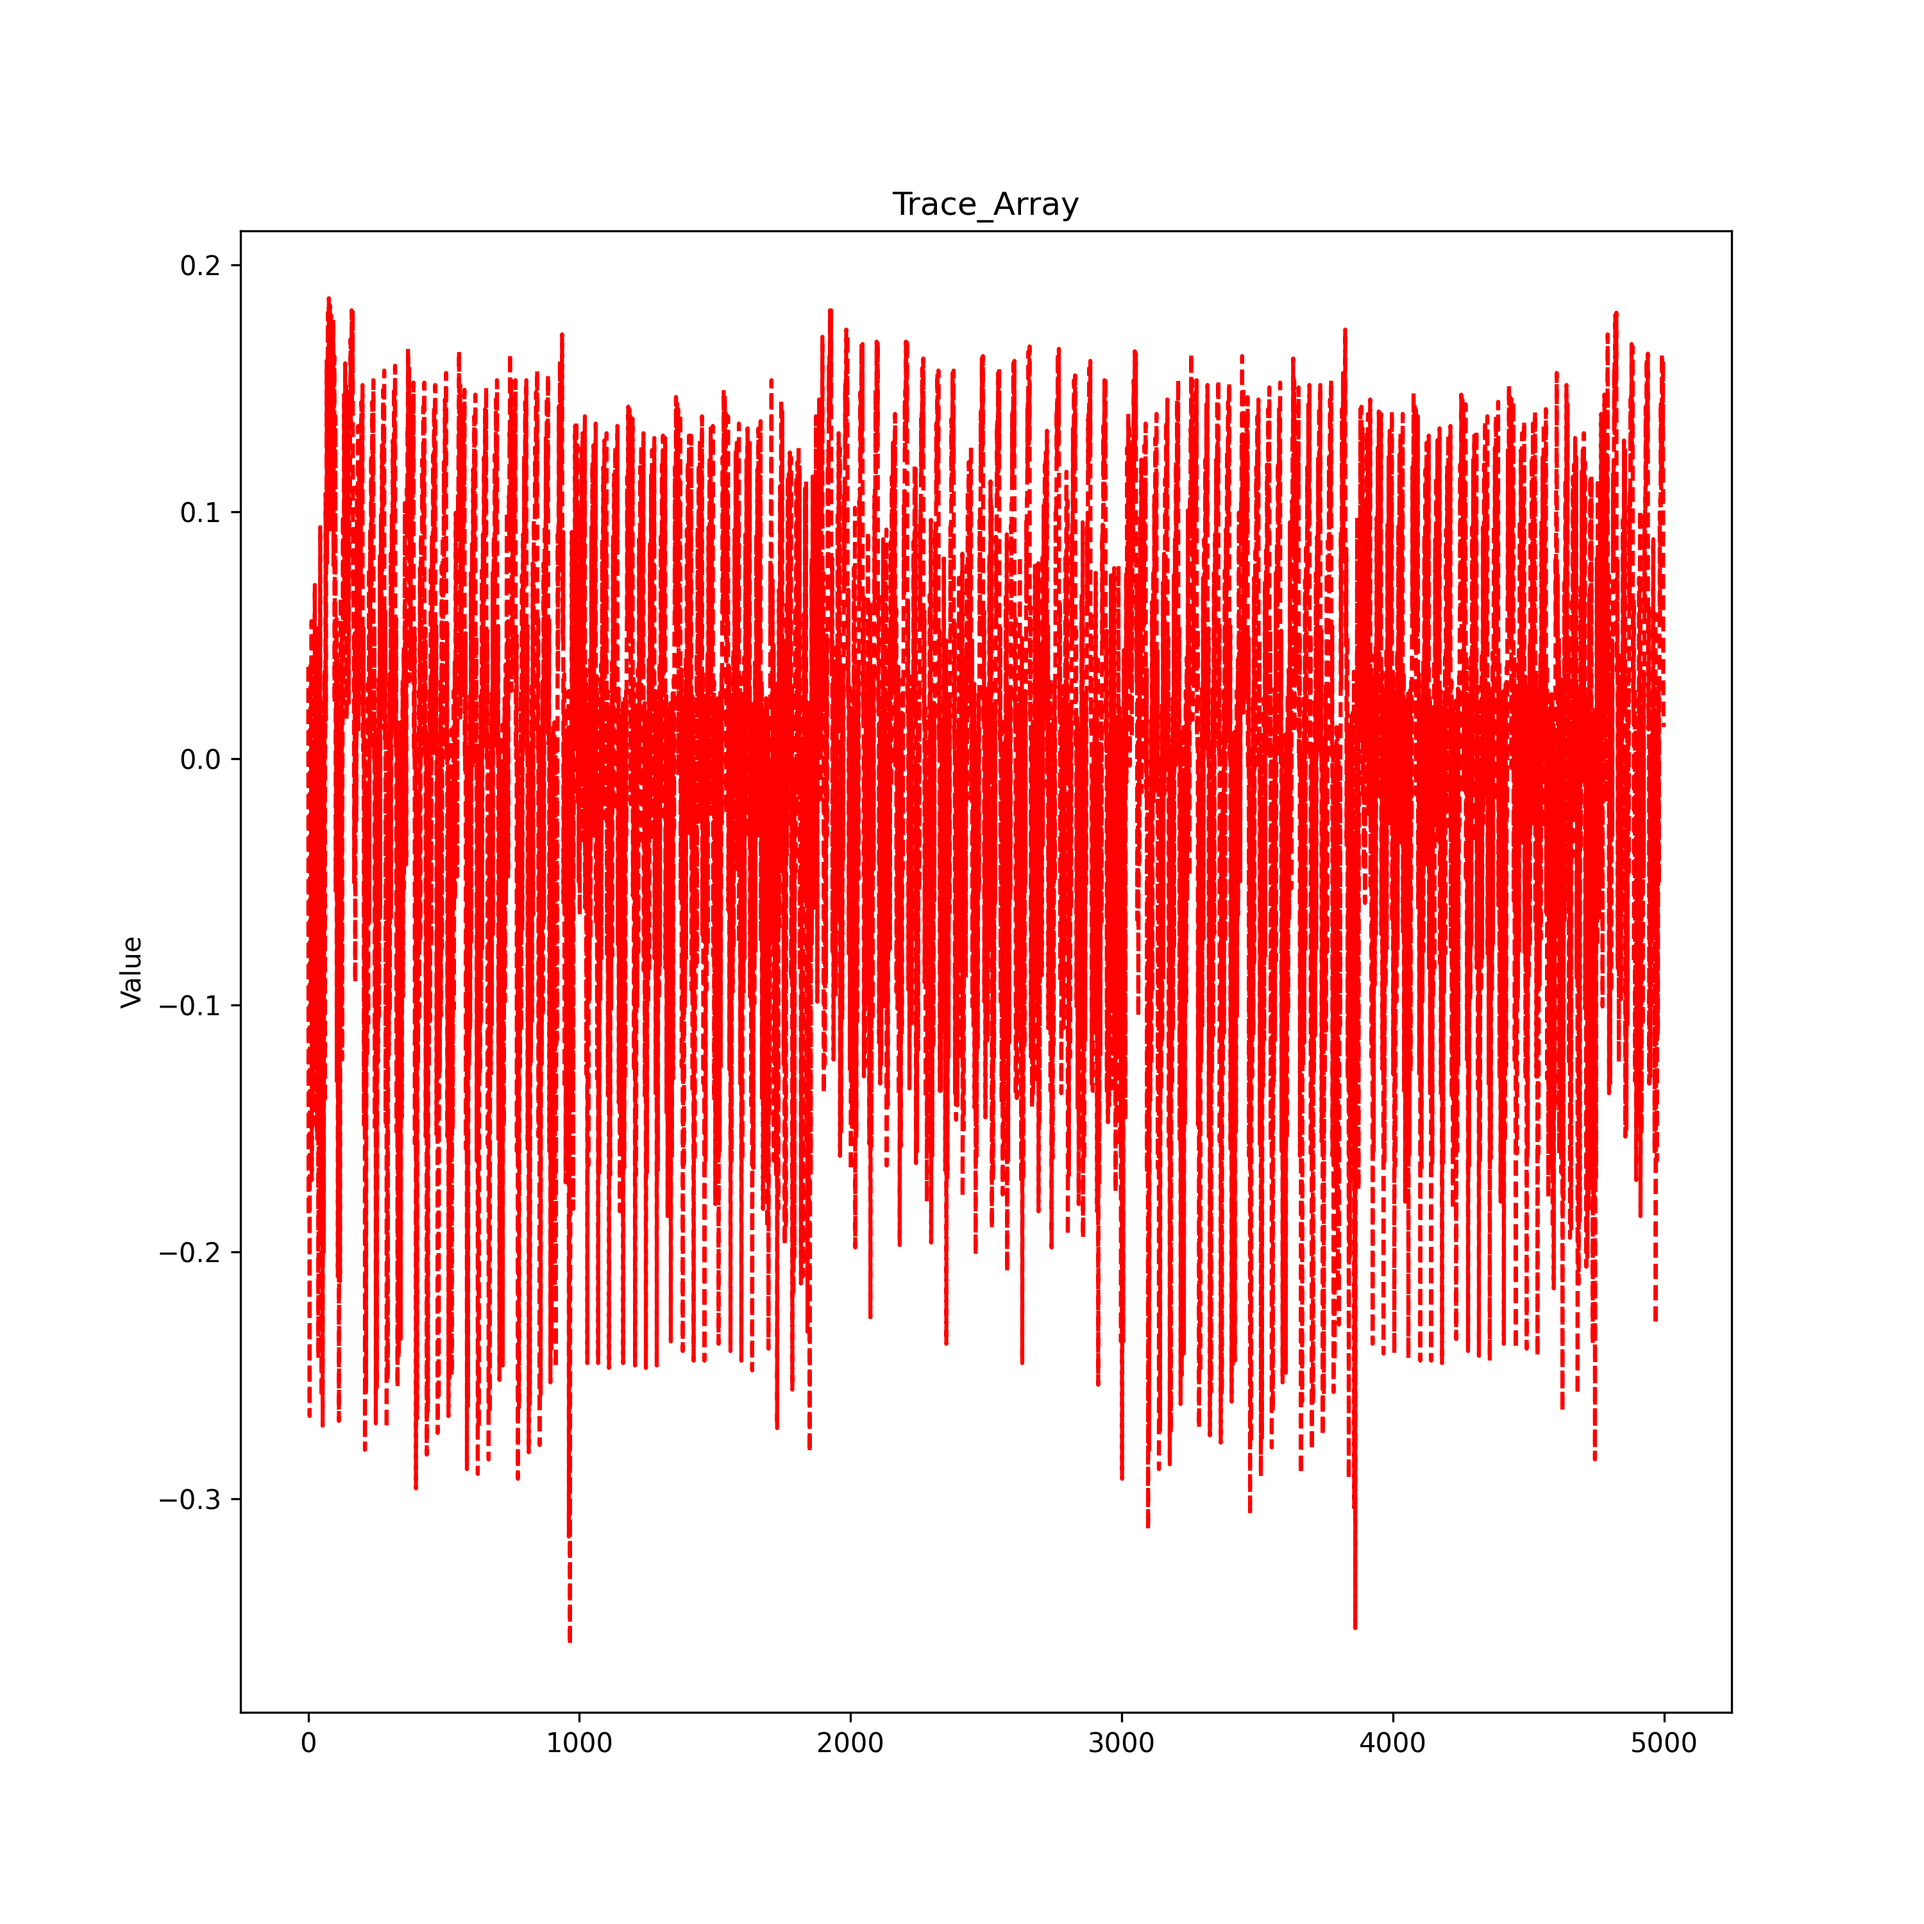
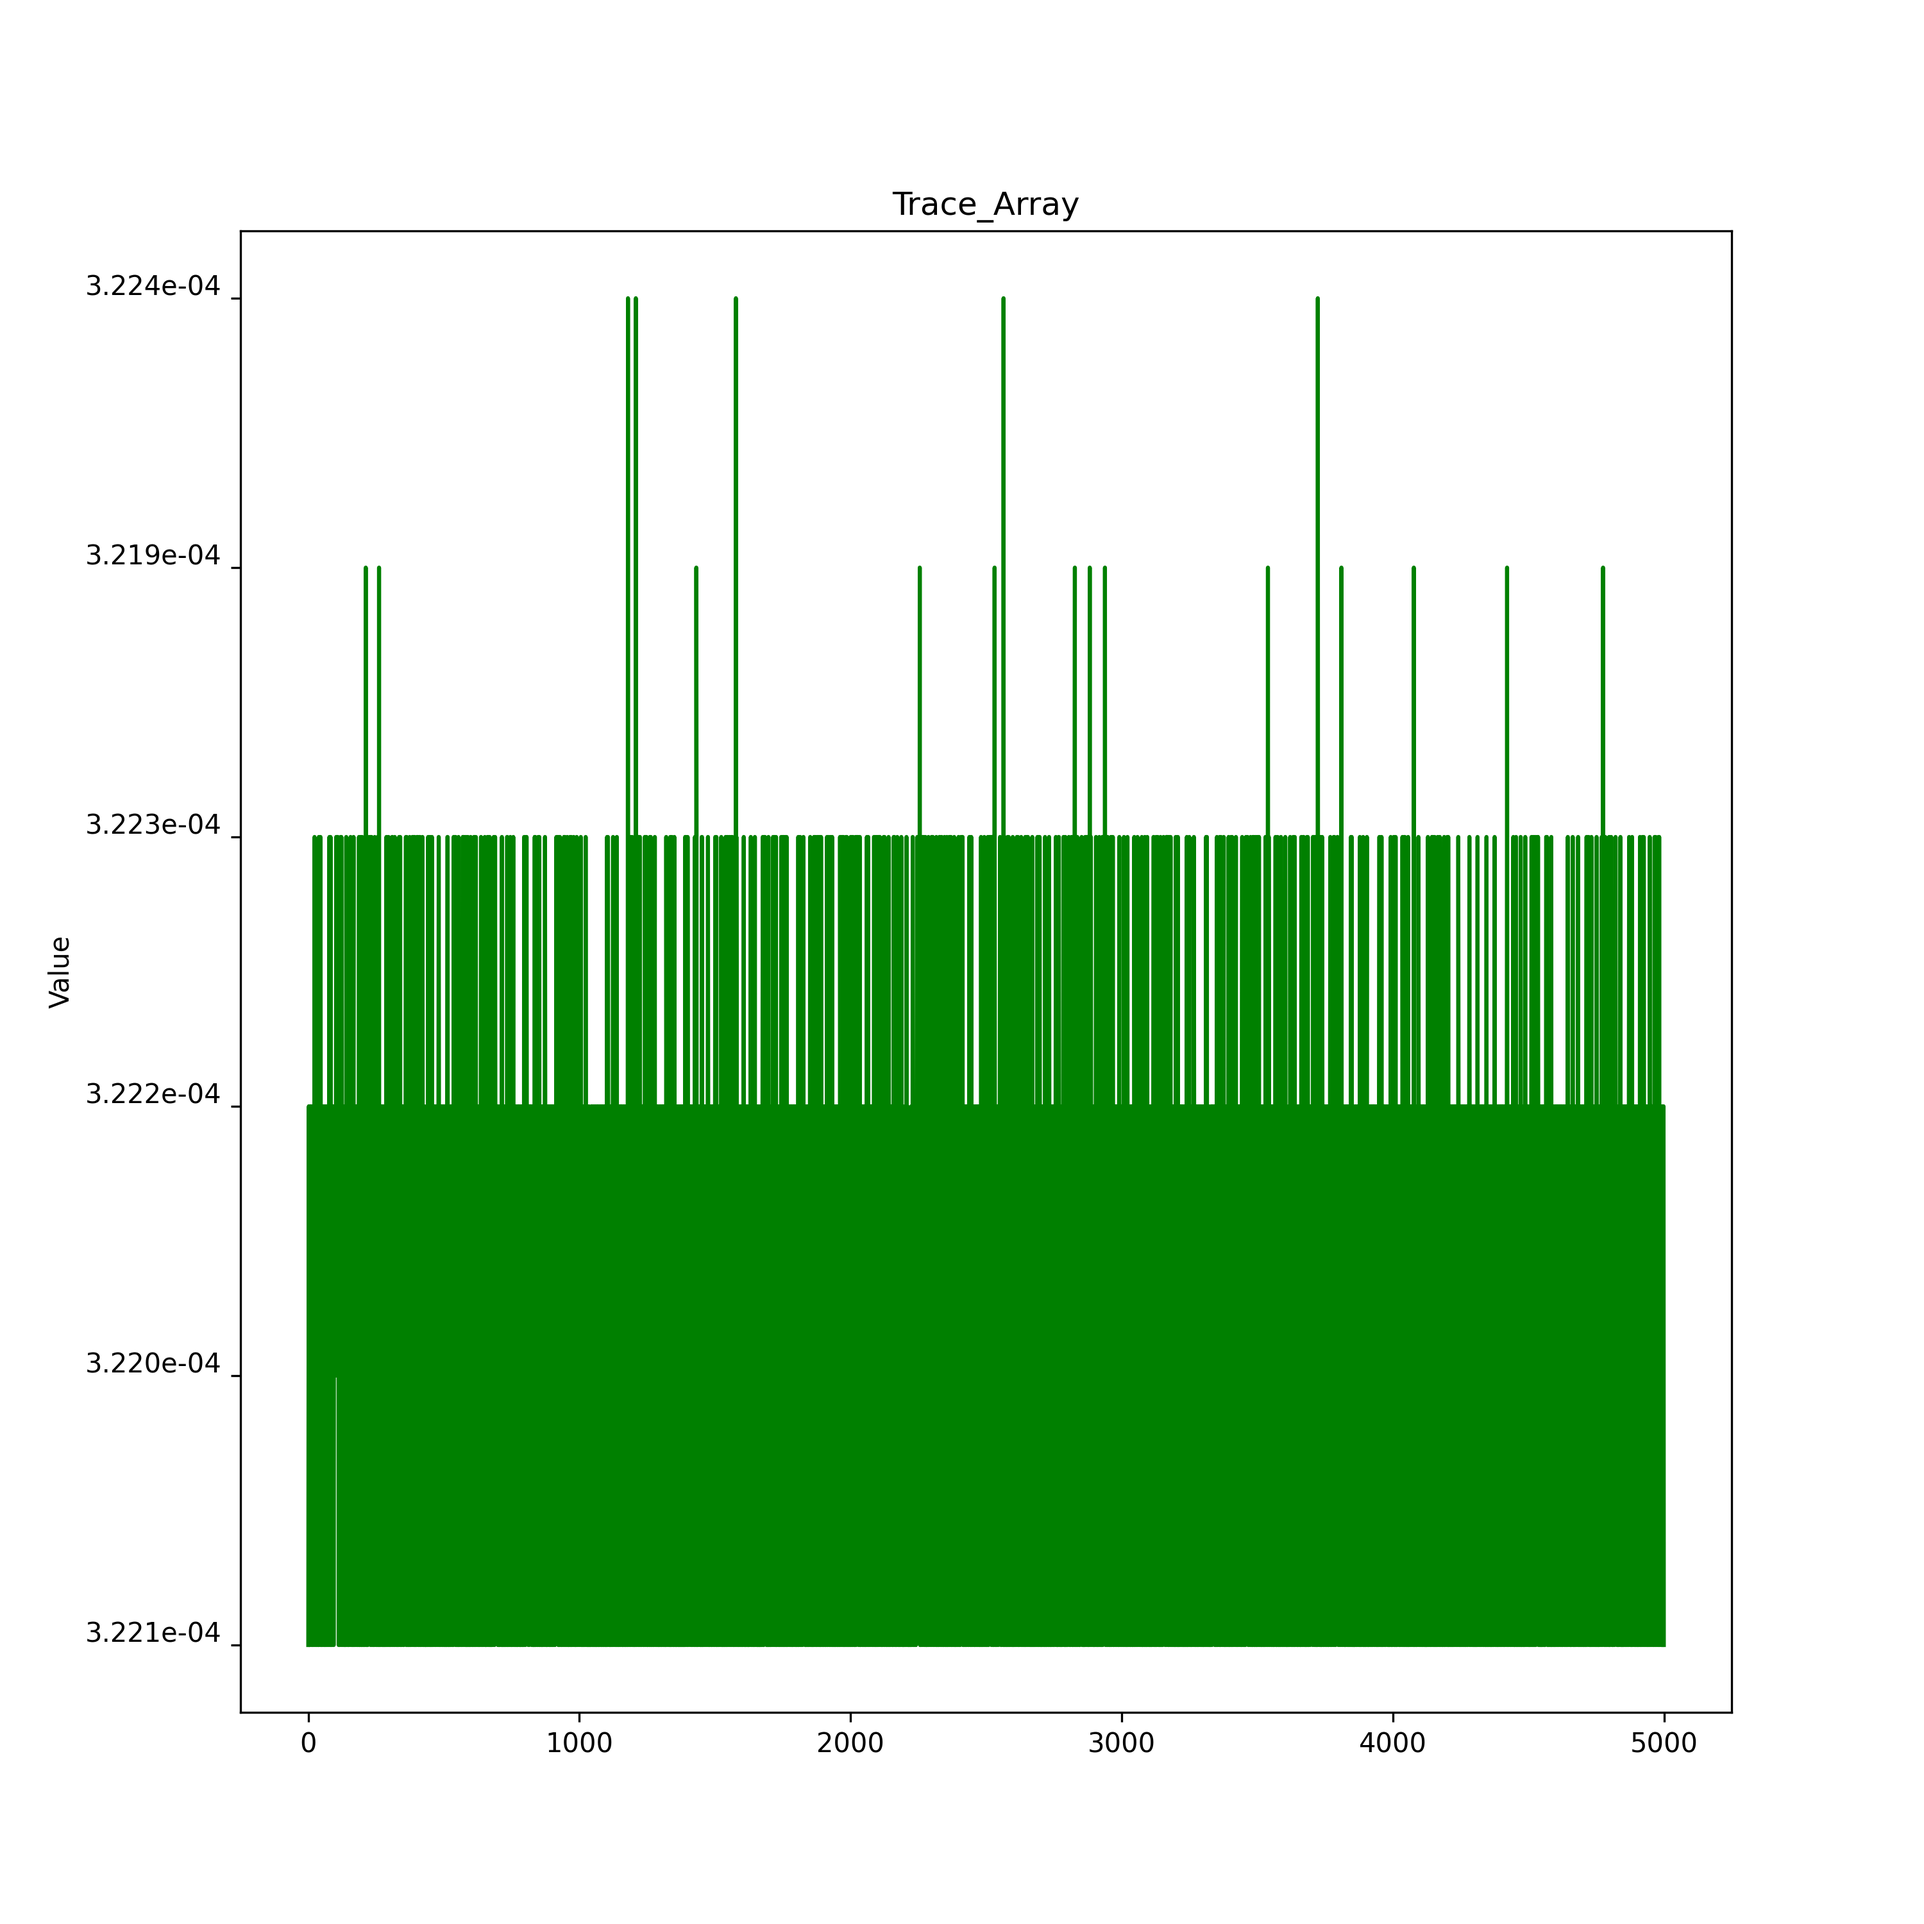
add guess without pt

diff --git a/main.py b/main.py
@@ -24,14 +24,14 @@ if __name__ == "__main__":
     print(type(cipher[0][0]))
 
     
-    # '''
-    # Plot Traces=============================================================================================
-    # '''
-    # plt.rcParams['figure.figsize'] = [10, 10]
-    # plt.plot(trace_array[0],'r--')
-    # plt.ylabel("Value")
-    # plt.title("Trace_Array")
-    # plt.savefig("CPA_output/traces.png",dpi=300)
+    '''
+    Plot Traces=============================================================================================
+    '''
+    plt.rcParams['figure.figsize'] = [10, 10]
+    plt.plot(power[0],'g-')
+    plt.ylabel("Value")
+    plt.title("Trace_Array")
+    plt.savefig("CPA_output/traces.png",dpi=300)
 
     # '''
     # Attack Code ============================================================================================

diff --git a/attack.py b/attack.py
@@ -74,3 +74,9 @@ def simple_guess_sim(trace_array,textin_array,key_guess):
             bestguess[bnum]= guess
     
     return bestguess
+
+def guess_no_pt(trace_array,cipher):
+
+    bestguess=[0]*16
+
+    return bestguess
